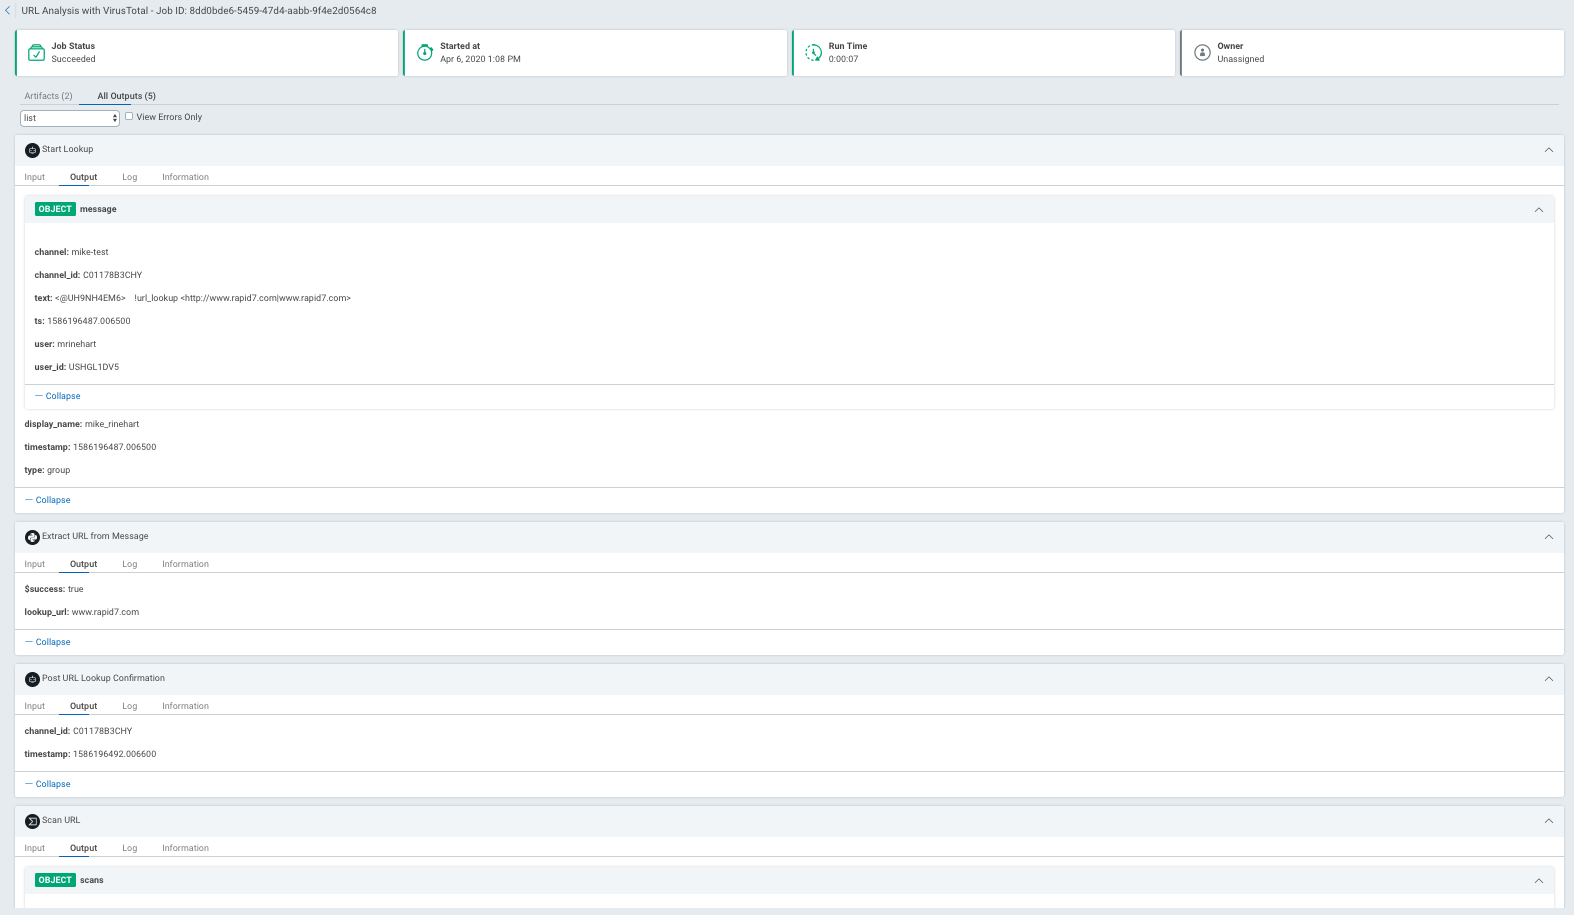
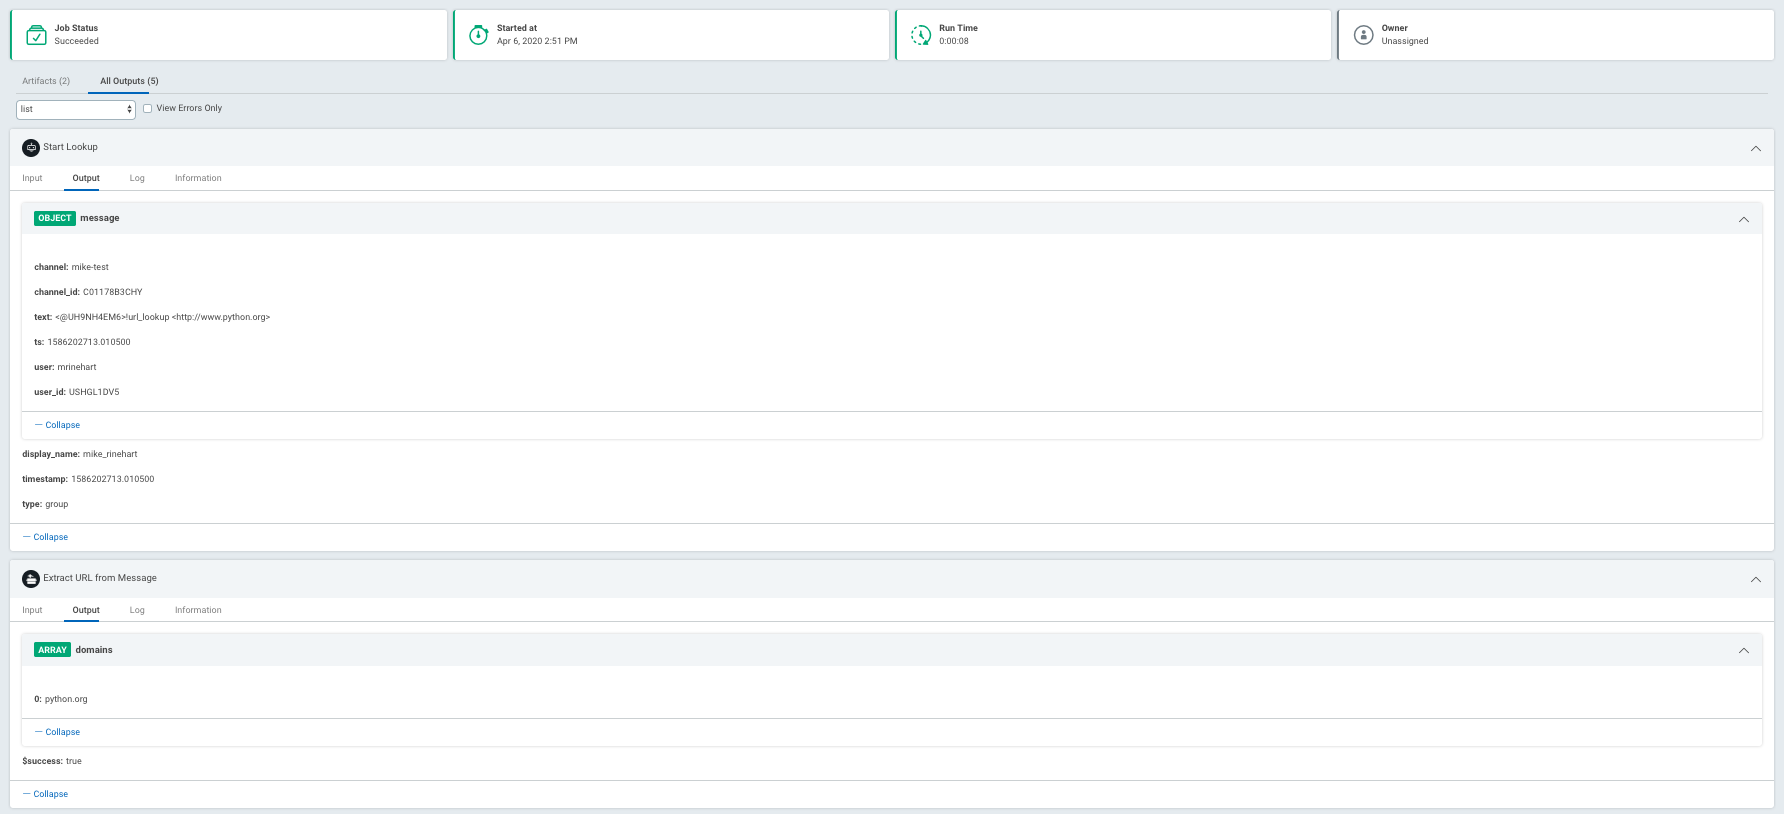
Swap out Python step

Changed region(s): [[0.0, 0.0, 0.9962, 0.9828], [0.0934, 0.9214, 0.1245, 0.9521]]

diff --git a/workflows/Slack_Chatbot_VirusTotal_URL_Scan/help.md b/workflows/Slack_Chatbot_VirusTotal_URL_Scan/help.md
@@ -34,7 +34,7 @@ Plugins utilized by workflow:
 
 |Plugin|Version|Count|
 |----|----|--------|
-|Python 3 Script|2.0.1|1|
+|ExtractIt|2.0.0|1|
 |VirusTotal|6.0.1|1|
 
 ## Troubleshooting
